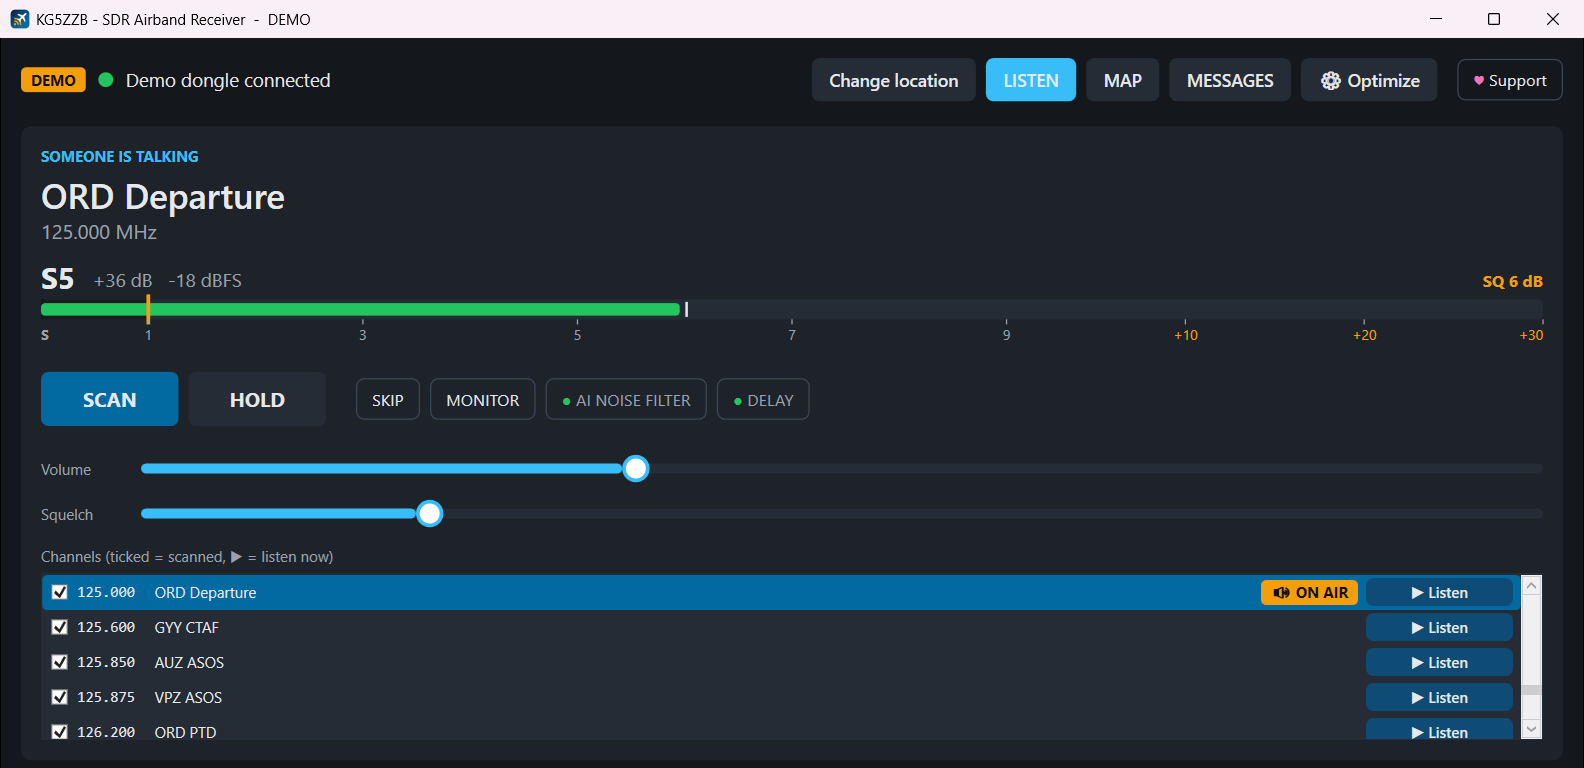
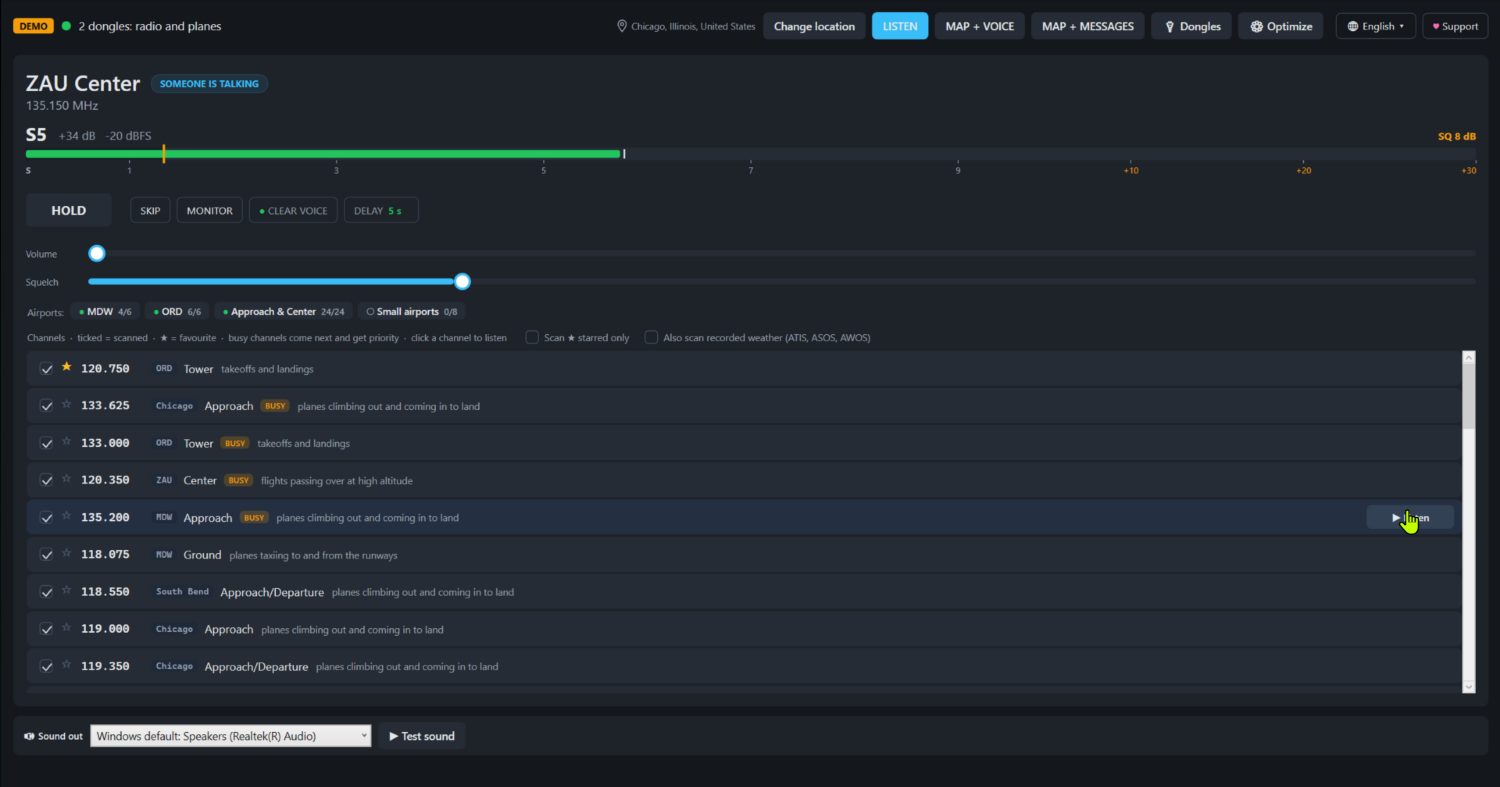
Airband Receiver 1.0 for Windows, macOS and Linux in four languages

diff --git a/README.md b/README.md
@@ -8,21 +8,24 @@ all from your own antenna, offline, in one app.
 
 <br>
 
-[![Download Airband Receiver 0.9.0 for Windows](https://img.shields.io/badge/⬇_Download-Airband_Receiver_0.9.0_·_Windows-0369A1?style=for-the-badge)](https://github.com/jeypnet/KG5ZZB-Radio-Apps/releases/download/airband-v0.9.0-trial/KG5ZZB-SDR-Airband-Receiver-0.9.0-trial-windows-x64.zip)
+[![Download Airband Receiver 1.0 for Windows](https://img.shields.io/badge/⬇_Download-Airband_Receiver_1.0_·_Windows-0369A1?style=for-the-badge)](https://github.com/jeypnet/KG5ZZB-Radio-Apps/releases/download/airband-v1.0.0/KG5ZZB-SDR-Airband-Receiver-1.0.0-trial-windows-x64.zip)
+[![macOS](https://img.shields.io/badge/⬇_macOS-Apple_silicon_·_Intel-333?style=for-the-badge&logo=apple)](#-downloads-for-every-system)
+[![Linux](https://img.shields.io/badge/⬇_Linux-64--bit-333?style=for-the-badge&logo=linux&logoColor=white)](#-downloads-for-every-system)
 <br>
-**Free 30-day trial** · Windows 10/11 · no install, just unzip · [Mac & Linux BETA](#-downloads-for-every-system) · [release notes](https://github.com/jeypnet/KG5ZZB-Radio-Apps/releases/tag/airband-v0.9.0-trial)
+**Free 30-day trial** · Windows · macOS · Linux · English · Español · 中文 · 日本語 · no install · [release notes](https://github.com/jeypnet/KG5ZZB-Radio-Apps/releases/tag/airband-v1.0.0)
 
 [![Shortwave Receiver: coming soon](https://img.shields.io/badge/Shortwave_Receiver-coming_soon-555?style=for-the-badge)](#-kg5zzb-shortwave-receiver-coming-soon)
 
 [![All releases](https://img.shields.io/github/v/release/jeypnet/KG5ZZB-Radio-Apps?label=latest&color=0369A1)](https://github.com/jeypnet/KG5ZZB-Radio-Apps/releases/latest)
 ![Windows](https://img.shields.io/badge/Windows-10%20%7C%2011-0078D4?logo=windows&logoColor=white)
-![macOS BETA](https://img.shields.io/badge/macOS-BETA-555?logo=apple&logoColor=white)
-![Linux BETA](https://img.shields.io/badge/Linux-BETA-555?logo=linux&logoColor=white)
+![macOS](https://img.shields.io/badge/macOS-12%2B-000000?logo=apple&logoColor=white)
+![Linux](https://img.shields.io/badge/Linux-64--bit-FCC624?logo=linux&logoColor=black)
+![Languages](https://img.shields.io/badge/🌐-English_·_Español_·_中文_·_日本語-0369A1)
 [![Support on Ko-fi](https://img.shields.io/badge/Support-Ko--fi-FF5E5B?logo=ko-fi&logoColor=white)](https://ko-fi.com/kg5zzb)
 
 </div>
 
-[![The Airband Receiver with two receivers: the scanner on the left, the planes on the right](docs/images/map-voice.png)](docs/images/map-voice.png)
+[![KG5ZZB SDR Airband Receiver 1.0: favourites and busy channels, airport buttons, live plane map, plane messages in plain words, in four languages](docs/images/airband-v1-hero.png)](docs/images/airband-v1-hero.png)
 
 ---
 
@@ -76,6 +79,18 @@ One button makes pilots easier to understand. It was tuned by ear on real pilot 
 | [![Scanner and map side by side](docs/images/map-voice.png)](docs/images/map-voice.png) | [![Map and messages side by side](docs/images/map-messages.png)](docs/images/map-messages.png) |
 | The scanner on the left, the planes on the right. | The planes and their messages, both live. |
 
+### New in 1.0
+- **🌐 Four languages:** English, Español, 中文 and 日本語. The app picks your computer's language; switch any time with the 🌐 button.
+
+  | Español | 中文 | 日本語 |
+  |:---:|:---:|:---:|
+  | [![Español](docs/images/listen-es.png)](docs/images/listen-es.png) | [![中文](docs/images/listen-zh.png)](docs/images/listen-zh.png) | [![日本語](docs/images/listen-ja.png)](docs/images/listen-ja.png) |
+- **★ Favourites and BUSY channels:** the app learns which channels talk the most, keeps them right after your favourites and gives them priority when two talk at once.
+- **Airport buttons:** scan or skip a whole airport, Approach & Center, or the small airports (off by default) in one click.
+- **Complete US channel lists** from FAA data, "Scan ★ starred only", optional recorded weather, and a list that never jumps while you use it.
+- **Your exact spot:** your town, coordinates from Google Maps, or your grid locator.
+- **macOS and Linux** get everything the Windows app has.
+
 ### Everything else
 - **📻 A real scanner, made simple:** SCAN, HOLD, SKIP, MONITOR and DELAY work like a handheld scanner.
 - **✈ Planes your way:** airline badges, a colour and an icon for each kind of aircraft (airliner, private jet, small plane, helicopter, military), radar-style labels, dotted paths for the planes you follow.
@@ -88,15 +103,15 @@ One button makes pilots easier to understand. It was tuned by ear on real pilot 
 
 | System | Version | Download |
 |---|---|---|
-| 🪟 **Windows 10 / 11** (64-bit) | **0.9.0** · free 30-day trial | **[KG5ZZB-SDR-Airband-Receiver-0.9.0-trial-windows-x64.zip](https://github.com/jeypnet/KG5ZZB-Radio-Apps/releases/download/airband-v0.9.0-trial/KG5ZZB-SDR-Airband-Receiver-0.9.0-trial-windows-x64.zip)** |
-| 🍎 **macOS** 12+, Apple silicon (M1–M4) | 0.6.2 · **BETA** | [KG5ZZB-SDR-Airband-Receiver-macos-arm64.zip](https://github.com/jeypnet/KG5ZZB-Radio-Apps/releases/download/airband-v0.6.2/KG5ZZB-SDR-Airband-Receiver-macos-arm64.zip) |
-| 🍎 **macOS** 12+, Intel | 0.6.2 · **BETA** | [KG5ZZB-SDR-Airband-Receiver-macos-x64.zip](https://github.com/jeypnet/KG5ZZB-Radio-Apps/releases/download/airband-v0.6.2/KG5ZZB-SDR-Airband-Receiver-macos-x64.zip) |
-| 🐧 **Linux** 64-bit, with a desktop | 0.6.2 · **BETA** | [KG5ZZB-SDR-Airband-Receiver-linux-x64.tar.gz](https://github.com/jeypnet/KG5ZZB-Radio-Apps/releases/download/airband-v0.6.2/KG5ZZB-SDR-Airband-Receiver-linux-x64.tar.gz) |
+| 🪟 **Windows 10 / 11** (64-bit) | **1.0.0** · free 30-day trial | **[KG5ZZB-SDR-Airband-Receiver-1.0.0-trial-windows-x64.zip](https://github.com/jeypnet/KG5ZZB-Radio-Apps/releases/download/airband-v1.0.0/KG5ZZB-SDR-Airband-Receiver-1.0.0-trial-windows-x64.zip)** |
+| 🍎 **macOS** 12+, Apple silicon (M1–M4) | **1.0.0** · free 30-day trial | **[KG5ZZB-SDR-Airband-Receiver-1.0.0-trial-macos-arm64.zip](https://github.com/jeypnet/KG5ZZB-Radio-Apps/releases/download/airband-v1.0.0/KG5ZZB-SDR-Airband-Receiver-1.0.0-trial-macos-arm64.zip)** |
+| 🍎 **macOS** 12+, Intel | **1.0.0** · free 30-day trial | **[KG5ZZB-SDR-Airband-Receiver-1.0.0-trial-macos-x64.zip](https://github.com/jeypnet/KG5ZZB-Radio-Apps/releases/download/airband-v1.0.0/KG5ZZB-SDR-Airband-Receiver-1.0.0-trial-macos-x64.zip)** |
+| 🐧 **Linux** 64-bit, with a desktop | **1.0.0** · free 30-day trial | **[KG5ZZB-SDR-Airband-Receiver-1.0.0-trial-linux-x64.tar.gz](https://github.com/jeypnet/KG5ZZB-Radio-Apps/releases/download/airband-v1.0.0/KG5ZZB-SDR-Airband-Receiver-1.0.0-trial-linux-x64.tar.gz)** |
 
 - **Windows:** unzip the whole folder and run `KG5ZZB-SDR-Airband-Receiver.exe`. A brand-new dongle: press **🔧 Set up dongle** once. If Windows says "Windows protected your PC", click **More info → Run anyway**.
-- **Mac BETA:** run `brew install librtlsdr` once, then the first time **right-click the app → Open → Open**. Steps in `README-MAC.txt` inside the zip.
-- **Linux BETA:** install librtlsdr (`sudo apt install librtlsdr2`) and block the TV driver; steps in `README-LINUX.txt` inside the archive.
-- The Mac and Linux BETA (0.6.2) work with RTL-SDR dongles and have the scanner, the AI noise filter and the planes map. 0.9.0 for Mac and Linux is on the way.
+- **Mac:** run `brew install libusb` once, then the first time **right-click the app → Open → Open**. Steps in `README-MAC.txt` inside the zip.
+- **Linux:** copy the included udev rule once so your user can open the dongle; steps in `README-LINUX.txt` inside the archive.
+- After 30 days the app becomes the free basic version (scanner and map keep working); the full version is a one-time $12 with the ★ Full version button in the app.
 
 All versions: [Releases](https://github.com/jeypnet/KG5ZZB-Radio-Apps/releases).
 

diff --git a/THIRD-PARTY-NOTICES.md b/THIRD-PARTY-NOTICES.md
@@ -37,6 +37,8 @@ versions used; contact through https://ko-fi.com/kg5zzb.
 |---|---|
 | **OurAirports** airports and frequencies | Public domain |
 | **Natural Earth** map outlines | Public domain |
+| **FAA** NASR frequency data (US airband channels) and the FAA aircraft registry (US aircraft models) | US government work, public domain |
+| **Mictronics aircraft database** (https://github.com/Mictronics/aircraft-database): aircraft registrations and models outside the US, Airband Receiver from 1.0.0 | Open Data Commons Attribution License (ODC-By) v1.0, https://opendatacommons.org/licenses/by/1-0/ |
 | **EiBi** worldwide shortwave schedule, by Eike Bierwirth (http://www.eibispace.de) | Free for use in third-party software |
 | DRM broadcast schedule (drm.org); radiofax schedules published by NOAA, DWD, JMA and the Australian Bureau of Meteorology | Facts from public schedules |
 
